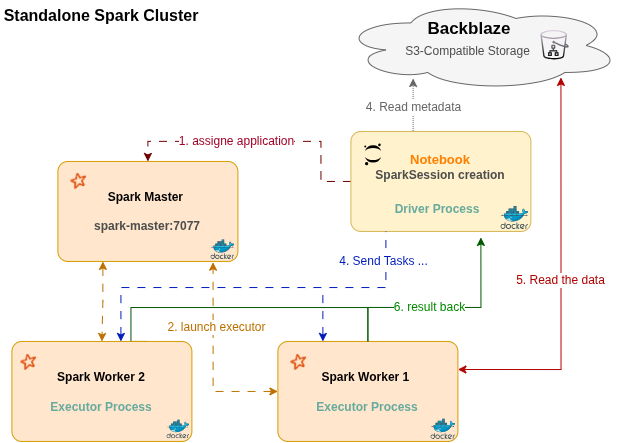
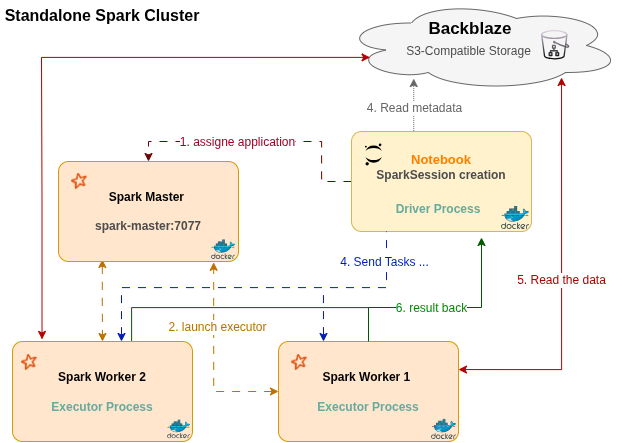
docs: adjusting the readme and uploading a diagram image

diff --git a/README.md b/README.md
@@ -99,11 +99,13 @@ df.show()
 The same `get_spark()` function works the same way in the notebook or with `spark-submit` inside the master container, one shared config, nothing to change between the two.
  
 Don't forget `spark.stop()` when you're done. A Spark session left alive in a notebook keeps holding onto worker resources, if you only have 1 core allocated and forget to stop a session, the next job you run just hangs waiting for a core that's never coming free. Learned this one the hard way.
- 
+  
 ## A couple of things worth knowing
- 
-- If you recreate the `spark-master` container, restart the worker(s) too. A worker connects to the master once at startup, if the master gets a new container it won't notice and just stays disconnected quietly. `docker compose restart spark-worker` fixes it.
-- The S3A jars need to be on the classpath of whichever container actually creates the SparkSession, not the executors. That's why `spark-submit` worked fine from the start (driver runs inside master, which already has the jars) while the notebook needed its own fix (driver runs inside Jupyter's container).
+
+- Early on, I recreated the `spark-master` container mid-debugging and the Master UI showed 0 workers connected — restarting the worker fixed it at the time. When I later tried to reproduce this cleanly (`docker compose up -d --force-recreate spark-master` alone, then just refreshing the UI, nothing else touched), the worker reconnected on its own without any manual restart. Best explanation: Docker Compose's embedded DNS re-resolves the `spark-master` service name fresh on each new connection, and Spark standalone workers already have built-in reconnect logic — they ping the master and re-register if disconnected. So a plain master recreate seems to self-heal. The original issue was likely caused by something else going on at the same time, since I was mid-debugging several things at once. If you ever do see a worker stuck at 0 in the UI, `docker compose restart spark-worker` is still the quick fix.
+
+- The S3A jars need to be on the classpath of both the driver and the executors — the driver uses them to list files and plan partitions, the executors use them to actually read each partition directly from B2. In this setup, master and worker share the same custom Spark image, so both already had the jars. The part that needed a separate fix was the driver when running inside Jupyter's container instead of the master's — since Jupyter uses a different image with a different jar folder.
+
 ## What's next
  
 - Compare speed and resource usage between a local pandas read and this distributed Spark setup, to actually show why distributed processing matters here
